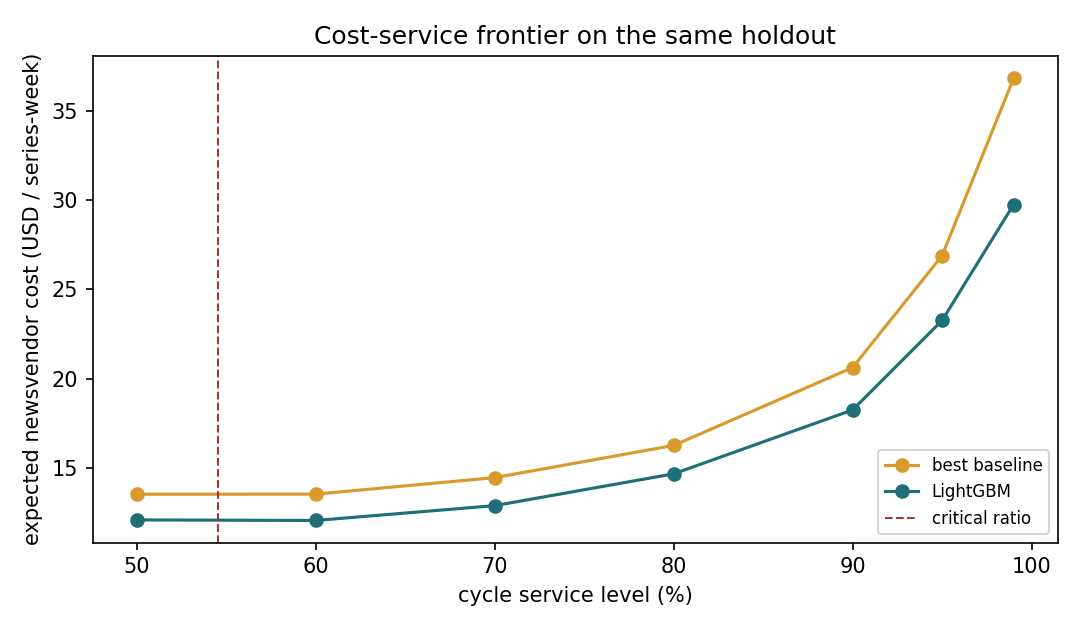
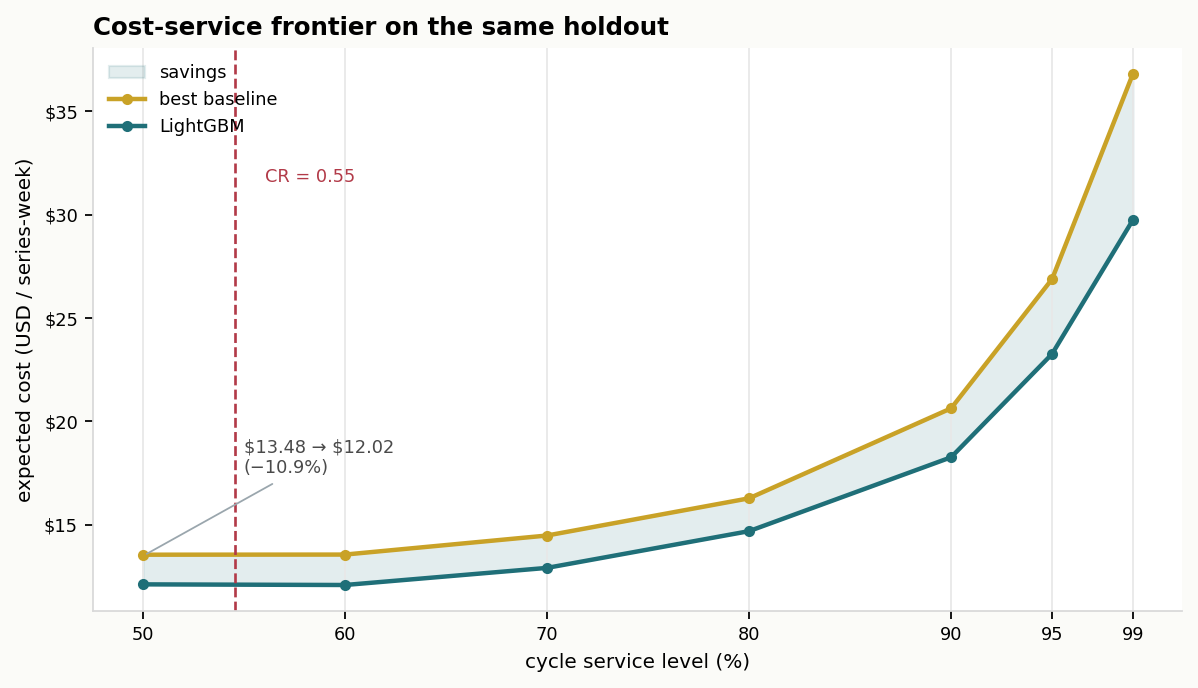
style: 把三张图重新排了一下，读起来顺一点

Changed region(s): [[0.0, 0.0302, 0.9778, 0.9952], [0.0, 0.2111, 0.0917, 0.8444], [0.8556, 0.9048, 0.8861, 0.9349]]

diff --git a/scripts/run_analysis.py b/scripts/run_analysis.py
@@ -84,30 +84,73 @@ def train_model(train: pd.DataFrame, features: list[str], direct: bool = False) 
     return model
 
 
+INK = "#2b2b2b"
+TEAL = "#1f6f78"
+AMBER = "#c9a227"
+RED = "#b23a48"
+MUTED = "#9aa6ad"
+GRID = "#e8e8e8"
+
+
+def _style() -> None:
+    import matplotlib.pyplot as plt
+
+    plt.rcParams.update(
+        {
+            "figure.facecolor": "#fbfbf8",
+            "axes.facecolor": "#ffffff",
+            "axes.edgecolor": "#d9d9d9",
+            "axes.grid": True,
+            "grid.color": GRID,
+            "grid.linewidth": 0.8,
+            "font.family": "DejaVu Sans",
+            "axes.titlesize": 11,
+            "axes.titleweight": "bold",
+            "axes.labelsize": 9,
+            "xtick.labelsize": 8,
+            "ytick.labelsize": 8,
+            "legend.frameon": False,
+        }
+    )
+
+
 def plot_examples(preds: pd.DataFrame, weekly: pd.DataFrame, holdout_start, images: Path) -> None:
     import matplotlib
 
     matplotlib.use("Agg")
     import matplotlib.pyplot as plt
 
+    _style()
     top = preds.groupby("id", observed=True)["sales"].sum().sort_values(ascending=False).head(3).index
-    fig, axes = plt.subplots(1, 3, figsize=(15, 4.0))
-    for ax, series in zip(axes, top):
+    fig, axes = plt.subplots(1, 3, figsize=(15, 4.3))
+    for idx, (ax, series) in enumerate(zip(axes, top)):
         history = weekly[weekly["id"] == series].sort_values("week").tail(40)
         forecast = preds[preds["id"] == series].sort_values("week")
-        history_x = history["week"].dt.start_time.dt.strftime("%Y-%m-%d")
-        forecast_x = forecast["week"].dt.start_time.dt.strftime("%Y-%m-%d")
-        ax.plot(history_x, history["sales"], color="#333", linewidth=1.2, label="actual")
-        ax.plot(forecast_x, forecast["naive"], color="#d99a2b", linestyle="--", linewidth=1, label="naive")
-        ax.plot(forecast_x, forecast["lgbm"], color="#1f6f78", linewidth=1.5, label="LightGBM")
-        ax.axvline(len(history) - len(forecast) - 0.5, color="#9b3b3b", linestyle=":", linewidth=1)
-        ax.set_title(series, fontsize=9)
-        ax.set_xticks(range(0, len(history), 4))
-        ax.set_xticklabels(history_x.iloc[::4], rotation=45, ha="right", fontsize=7)
-    axes[0].set_ylabel("weekly units")
-    axes[0].legend(fontsize=7)
-    fig.tight_layout()
-    fig.savefig(images / "forecast_examples.png", dpi=150)
+        n, h = len(history), len(forecast)
+        x = np.arange(n)
+        dates = history["week"].dt.start_time
+        ax.axvspan(n - h - 0.5, n - 0.5, color="#f6efe3", zorder=0)
+        ax.plot(x, history["sales"], color=INK, linewidth=1.8, label="actual")
+        ax.plot(x[-h:], forecast["naive"], color=AMBER, linewidth=1.4, linestyle="--", label="naive")
+        ax.plot(x[-h:], forecast["lgbm"], color=TEAL, linewidth=2.2, label="LightGBM")
+        ax.set_title(series.replace("_validation", ""), fontsize=9, loc="left")
+        step = 4
+        ax.set_xticks(x[::step])
+        ax.set_xticklabels(dates.dt.strftime("%b %d").iloc[::step], fontsize=7)
+        ax.set_ylim(0, max(history["sales"].max(), forecast[["naive", "lgbm"]].max().max()) * 1.1)
+        ax.grid(axis="y")
+        ax.grid(axis="x", visible=False)
+        for side in ("top", "right"):
+            ax.spines[side].set_visible(False)
+        if idx == 0:
+            ax.set_ylabel("weekly units")
+        if idx == 2:
+            ax.text(n - h, ax.get_ylim()[1] * 0.93, "  holdout", color="#8a6d3b", fontsize=8)
+
+    handles, labels = axes[0].get_legend_handles_labels()
+    fig.legend(handles, labels, loc="upper center", ncol=3, bbox_to_anchor=(0.5, 1.02), fontsize=8)
+    fig.tight_layout(rect=(0, 0, 1, 0.92))
+    fig.savefig(images / "forecast_examples.png", dpi=160, bbox_inches="tight")
     plt.close(fig)
 
 
@@ -117,22 +160,51 @@ def plot_models(models: pd.DataFrame, images: Path) -> None:
     matplotlib.use("Agg")
     import matplotlib.pyplot as plt
 
-    fig, axes = plt.subplots(1, 2, figsize=(12.0, 4.0))
+    _style()
+    order = models.sort_values("mae", ascending=True).reset_index(drop=True)
+    display = {"lgbm": "LightGBM", "naive": "naive", "ma4": "MA4", "seasonal": "seasonal"}
+    labels = [display.get(m, m) for m in order["model"]]
+    y = np.arange(len(order))
+    colors = [TEAL if m == "lgbm" else (AMBER if m == "seasonal" else "#a9b4ba") for m in order["model"]]
+    xmax = order["mae"].max()
+
+    fig, axes = plt.subplots(1, 2, figsize=(12.5, 4.0), gridspec_kw={"width_ratios": [1.25, 1]})
     ax = axes[0]
-    colors = {"naive": "#9b3b3b", "seasonal": "#d99a2b", "ma4": "#2f5d8c", "lgbm": "#1f6f78"}
-    ax.bar(models["model"], models["mae"], color=[colors.get(m, "#7c8a99") for m in models["model"]])
-    for i, row in enumerate(models.itertuples()):
-        ax.text(i, row.mae * 1.02, f"FVA {row.fva_vs_naive:+.1%}", ha="center", fontsize=8)
-    ax.set_ylabel("MAE (weekly units / series)")
-    ax.set_title("Same 26-week holdout: baselines vs LightGBM")
+    ax.barh(y, order["mae"], color=colors, height=0.58)
+    ax.set_yticks(y, labels)
+    ax.invert_yaxis()
+    for i, row in order.iterrows():
+        ax.text(row["mae"] + xmax * 0.015, i, f"{row['mae']:.1f}", va="center", fontsize=8, color=INK)
+        ax.text(row["mae"] + xmax * 0.13, i, f"FVA {row['fva_vs_naive']:+.1%}", va="center", fontsize=8, color="#5f6b70")
+    ax.set_xlim(0, xmax * 1.38)
+    ax.set_xlabel("MAE (weekly units, lower is better)")
+    ax.set_title("Same 26-week holdout", loc="left")
+    ax.grid(axis="x")
+    ax.grid(axis="y", visible=False)
+    for side in ("top", "right"):
+        ax.spines[side].set_visible(False)
 
     ax2 = axes[1]
-    ax2.bar(models["model"], models["bias"], color=[colors.get(m, "#7c8a99") for m in models["model"]])
-    ax2.axhline(0, color="#333", linewidth=0.8)
-    ax2.set_ylabel("mean error (actual − forecast)")
-    ax2.set_title("Bias")
+    ax2.axvline(0, color="#6b6b6b", linewidth=0.8)
+    for i, row in order.iterrows():
+        color = TEAL if row["model"] == "lgbm" else (AMBER if row["model"] == "seasonal" else MUTED)
+        ax2.hlines(i, 0, row["bias"], color=color, linewidth=2.5)
+        ax2.scatter(row["bias"], i, color=color, s=28, zorder=3)
+        offset = 0.18 if row["bias"] >= 0 else -0.18
+        ax2.text(row["bias"] + offset, i, f"{row['bias']:+.2f}", va="center", fontsize=8,
+                 ha="left" if row["bias"] >= 0 else "right", color="#5f6b70")
+    ax2.set_yticks(y, labels)
+    ax2.invert_yaxis()
+    ax2.set_xlim(-3.2, 7.2)
+    ax2.set_xlabel("mean error (actual − forecast)")
+    ax2.set_title("Bias", loc="left")
+    ax2.grid(axis="x")
+    ax2.grid(axis="y", visible=False)
+    for side in ("top", "right"):
+        ax2.spines[side].set_visible(False)
+
     fig.tight_layout()
-    fig.savefig(images / "model_comparison.png", dpi=150)
+    fig.savefig(images / "model_comparison.png", dpi=160, bbox_inches="tight")
     plt.close(fig)
 
 
@@ -141,21 +213,41 @@ def plot_newsvendor(frontier: pd.DataFrame, summary: dict, images: Path) -> None
 
     matplotlib.use("Agg")
     import matplotlib.pyplot as plt
+    from matplotlib.ticker import StrMethodFormatter
 
-    fig, ax = plt.subplots(figsize=(7.2, 4.2))
-    for model, label, color in [
-        (summary["baseline"], "best baseline", "#d99a2b"),
-        ("lgbm", "LightGBM", "#1f6f78"),
-    ]:
-        view = frontier[frontier["model"] == model]
-        ax.plot(view["service_level"] * 100, view["expected_cost"], marker="o", color=color, label=label)
-    ax.axvline(summary["critical_ratio"] * 100, color="#9b3b3b", linestyle="--", linewidth=1, label="critical ratio")
+    _style()
+    base = frontier[frontier["model"] == summary["baseline"]].sort_values("service_level")
+    lgbm = frontier[frontier["model"] == "lgbm"].sort_values("service_level")
+    x = base["service_level"] * 100
+
+    fig, ax = plt.subplots(figsize=(7.6, 4.4))
+    ax.fill_between(x, lgbm["expected_cost"], base["expected_cost"], color=TEAL, alpha=0.12, label="savings")
+    ax.plot(x, base["expected_cost"], color=AMBER, marker="o", markersize=4, linewidth=2, label="best baseline")
+    ax.plot(x, lgbm["expected_cost"], color=TEAL, marker="o", markersize=4, linewidth=2, label="LightGBM")
+    ax.axvline(summary["critical_ratio"] * 100, color=RED, linestyle="--", linewidth=1.2)
+    ax.text(summary["critical_ratio"] * 100 + 1.5, ax.get_ylim()[1] * 0.83,
+            f"CR = {summary['critical_ratio']:.2f}", color=RED, fontsize=8)
+    base_cost = summary["newsvendor"]["baseline_cost"]
+    lgbm_cost = summary["newsvendor"]["lgbm_cost"]
+    ax.annotate(
+        f"\\${base_cost:.2f} → \\${lgbm_cost:.2f}\n(−{summary['newsvendor']['cost_reduction']:.1%})",
+        xy=(50, base_cost),
+        xytext=(55, base_cost + 4),
+        fontsize=8,
+        color="#4a4a4a",
+        arrowprops={"arrowstyle": "-", "color": "#9aa6ad", "lw": 0.8},
+    )
     ax.set_xlabel("cycle service level (%)")
-    ax.set_ylabel("expected newsvendor cost (USD / series-week)")
-    ax.set_title("Cost-service frontier on the same holdout")
-    ax.legend(fontsize=8)
+    ax.set_ylabel("expected cost (USD / series-week)")
+    ax.set_title("Cost-service frontier on the same holdout", loc="left")
+    ax.yaxis.set_major_formatter(StrMethodFormatter("${x:,.0f}"))
+    ax.set_xticks([50, 60, 70, 80, 90, 95, 99])
+    ax.grid(axis="y")
+    for side in ("top", "right"):
+        ax.spines[side].set_visible(False)
+    ax.legend(loc="upper left", fontsize=8)
     fig.tight_layout()
-    fig.savefig(images / "newsvendor.png", dpi=150)
+    fig.savefig(images / "newsvendor.png", dpi=160, bbox_inches="tight")
     plt.close(fig)
 
 
